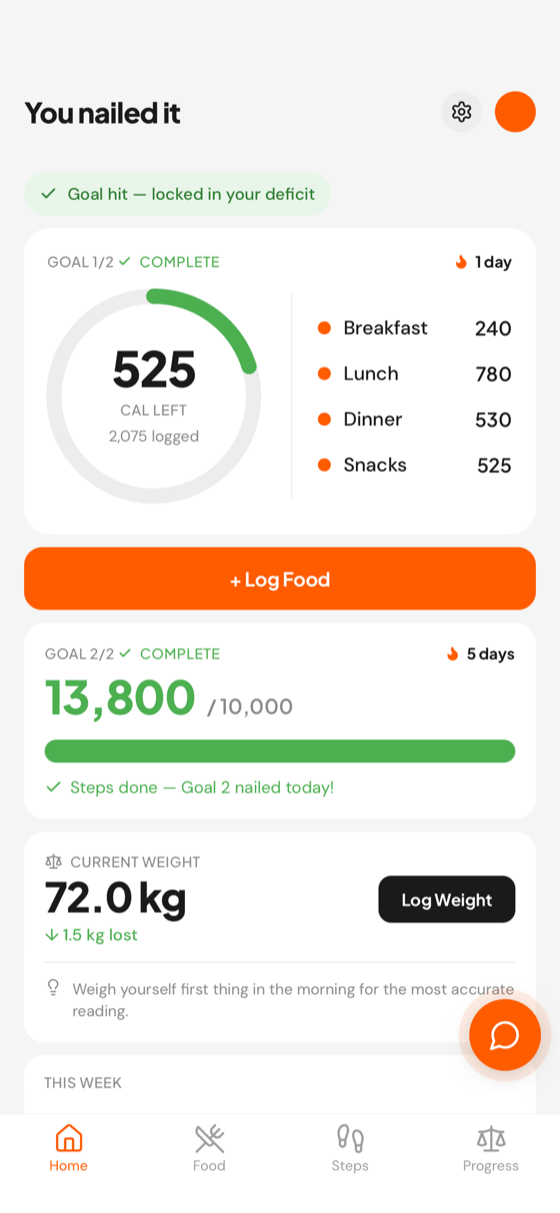
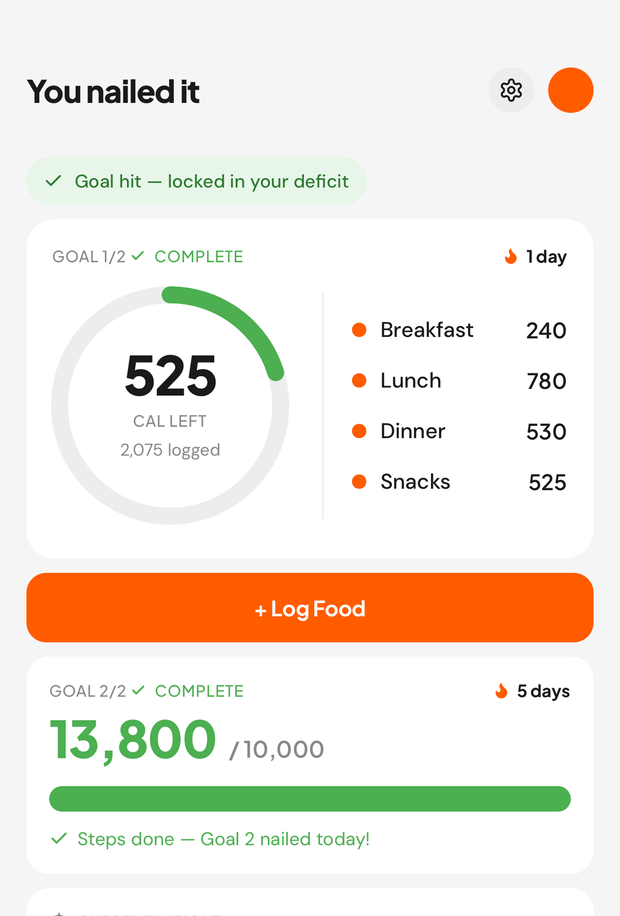
Guarantee page: stop the app screenshot rendering stretched, and crop it
Two faults, the first of which is why it looked wrong on a phone.

The image was rendering at its full natural height while CSS shrank its width, so
it was vertically stretched to 916px - most of a phone screen. Cause: the global
img rule set max-width but never height:auto, so the height attribute on the tag
won. Added height:auto globally and on the figure. Aspect on the page now matches
the file, measured, and the image takes 41% of a 956pt screen rather than all of
it.

Second, it was the whole screen including the tab bar and a sliced "this week"
card. Cropped to the part that carries the proof: the header, "goal hit - locked
in your deficit", and both goal cards complete. The crop ends in the grey gap
below the second card so the bottom edge is a gap, not a cut.

diff --git a/guarantee.html b/guarantee.html
@@ -41,7 +41,7 @@
   html { scroll-behavior: smooth; }
   body { font-family: var(--body); background: var(--bg); color: var(--black); line-height: 1.5; overflow-x: hidden; }
   a { color: inherit; text-decoration: none; }
-  img { display: block; max-width: 100%; }
+  img { display: block; max-width: 100%; height: auto; }
   strong { font-weight: 700; }
 
   /* NAV */
@@ -119,7 +119,7 @@
   /* The one image on the page. It is proof of the mechanism, not decoration:
      both goals complete is what "a green day" actually looks like. */
   .shot { margin-top: 26px; text-align: center; }
-  .shot img { width: 100%; max-width: 236px; margin: 0 auto; border-radius: 18px; border: 1px solid rgba(0,0,0,0.08); box-shadow: 0 18px 44px -20px rgba(0,0,0,0.28); }
+  .shot img { width: 100%; height: auto; max-width: 268px; margin: 0 auto; border-radius: 16px; border: 1px solid rgba(0,0,0,0.08); box-shadow: 0 14px 36px -18px rgba(0,0,0,0.22); }
   .shot figcaption { font-size: 14px; color: var(--grey); margin-top: 12px; }
   .rule { display: flex; gap: 16px; background: var(--card); border-radius: 16px; padding: 18px 20px; border: 1px solid rgba(0,0,0,0.05); }
   .rule-ic { flex: 0 0 40px; height: 40px; border-radius: 10px; background: var(--orange-pale); display: grid; place-items: center; color: var(--orange); font-family: var(--display); font-weight: 800; font-size: 15px; }
@@ -305,7 +305,7 @@ fbq('track', 'PageView');
       <div class="maths-row total"><span>After 60 days</span><b>≈ 6 kg</b></div>
       <p class="maths-note">Bodies aren't calculators and the scale moves around day to day. That's why the guarantee is on the result, not on the theory. Under 6 kg after 50 green days, and we pay.</p>
       <figure class="shot">
-        <img src="assets/green-day.png" alt="The CalCut home screen with both daily goals marked complete: calories under target and steps done." width="560" height="1213" loading="lazy">
+        <img src="assets/green-day.png" alt="The CalCut home screen with both daily goals marked complete: calories under target and steps done." width="620" height="916" loading="lazy">
         <figcaption>This is a green day. Both goals done, and the app says so.</figcaption>
       </figure>
     </div>
